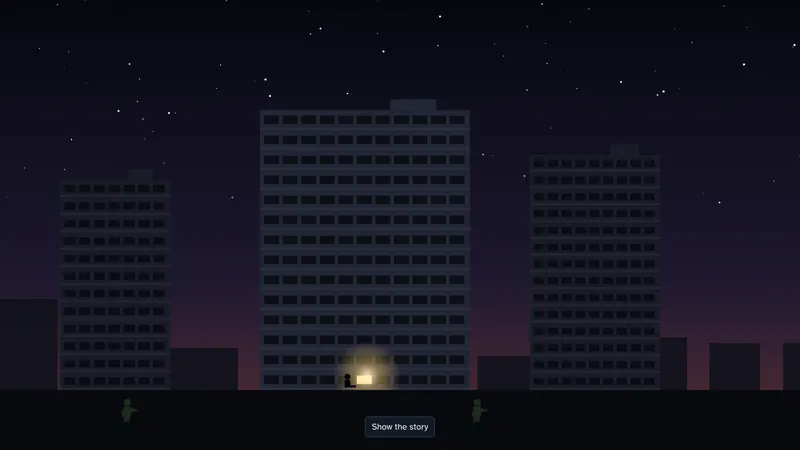
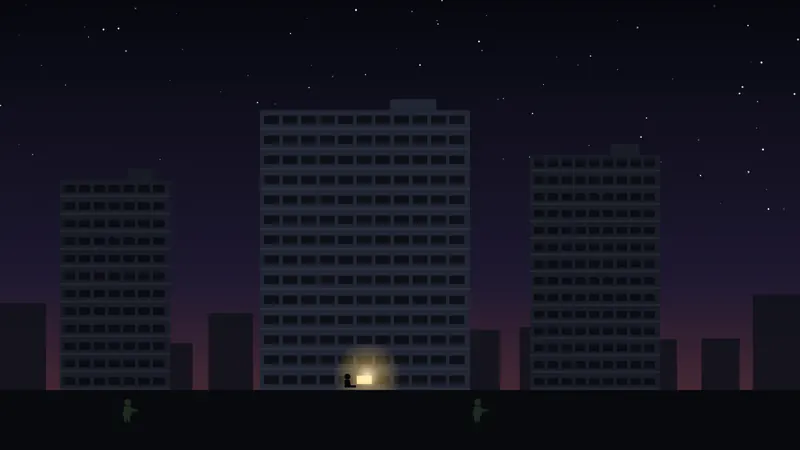
Restyle the block view to match the flat ending-scene art
Flat dusk and night skies with soft sun and moon glows, a dark facade
that shifts with the time of day, lit amber flats, a city skyline behind
the block, and a darker street. Landing page screenshots retaken in the
new style, and the ending thumbnails no longer show the 'Show the story'
button.

Claude-Session: https://claude.ai/code/session_013iYuGKsu41WWEmhTwasNdz

diff --git a/play.html b/play.html
@@ -61,7 +61,7 @@ select{background:var(--panel2);border:1px solid var(--line);border-radius:6px;p
 .ticker b{color:var(--ink);font-weight:700}
 
 #main{flex:1;min-height:0;display:grid;grid-template-columns:minmax(0,1.25fr) minmax(320px,1fr)}
-#tower-wrap{overflow:auto;position:relative;transition:background 1s}
+#tower-wrap{overflow-y:auto;overflow-x:hidden;position:relative;transition:background 1s}
 #side{background:var(--panel);border-left:1px solid var(--line);display:flex;flex-direction:column;min-height:0;min-width:0}
 #tabs{display:flex;gap:2px;padding:6px 8px 0;border-bottom:1px solid var(--line);overflow-x:auto}
 #tabs button{border:none;border-radius:6px 6px 0 0;background:transparent;color:var(--mute);padding:7px 10px;white-space:nowrap}
@@ -77,21 +77,22 @@ select{background:var(--panel2);border:1px solid var(--line);border-radius:6px;p
 
 /* ---------- the block ---------- */
 /* sun / moon: radial layers on the scroll container, so they stay put while the block scrolls */
-.sky-0{background:radial-gradient(circle at 22% 62px,#ffd9a0 0 24px,#ffb86a55 25px 42px,transparent 43px),linear-gradient(#3a4f6e,#d39a6a 85%)}
-.sky-1{background:radial-gradient(circle at 58% 44px,#fffbe6 0 22px,#fff1a866 23px 36px,#fff1a822 37px 50px,transparent 51px),linear-gradient(#3b7fc0,#9cc8e8 85%)}
-.sky-2{background:radial-gradient(circle at 78% 66px,#ff9a5c 0 26px,#ff6a3d44 27px 46px,transparent 47px),linear-gradient(#2b2347,#c0604a 85%)}
-.sky-3{background:radial-gradient(circle at 62% 46px,transparent 0 21px,#eef1f61c 22px 34px,transparent 35px),radial-gradient(circle at calc(62% + 8px) 41px,#06090f 0 17px,transparent 18px),radial-gradient(circle at 62% 46px,#eef1f6 0 20px,transparent 21px),radial-gradient(circle at 12% 30px,#fff 0 1.2px,transparent 2px),radial-gradient(circle at 34% 64px,#fff 0 1px,transparent 2px),radial-gradient(circle at 46% 18px,#fff 0 1.2px,transparent 2px),radial-gradient(circle at 80% 28px,#fffc 0 1px,transparent 2px),radial-gradient(circle at 90% 74px,#fffa 0 1px,transparent 2px),radial-gradient(circle at 4% 80px,#fffa 0 1px,transparent 2px),linear-gradient(#05080e,#121c2c 85%)}
+.sky-0{--fac:#3b4258;--slabc:#2a3043;--dk:#1b2030;background:radial-gradient(circle at 22% 70px,#ffe2a8 0 26px,#ffd27a55 27px,transparent 72px),linear-gradient(#5b6f9c,#c98d78 55%,#f2b47c)}
+.sky-1{--fac:#4a5266;--slabc:#353c50;--dk:#232836;background:radial-gradient(circle at 58% 52px,#fff6d6 0 24px,#fff1c466 25px,transparent 74px),linear-gradient(#5fa9e0,#a9d4f0 60%,#e3f2f8)}
+.sky-2{--fac:#2d3046;--slabc:#1f2234;--dk:#151826;background:radial-gradient(circle at 78% 74px,#ffd98a 0 28px,#ffd27a55 29px,transparent 82px),linear-gradient(#24183f,#6b3c55 45%,#c25a3c 80%,#f6b062)}
+.sky-3{--fac:#232838;--slabc:#181c2a;--dk:#0f121b;background:radial-gradient(circle at 62% 52px,#f2efd8 0 20px,#f2efd82e 21px,transparent 62px),radial-gradient(circle at 12% 30px,#fff 0 1.2px,transparent 2px),radial-gradient(circle at 34% 64px,#fff 0 1px,transparent 2px),radial-gradient(circle at 46% 18px,#fff 0 1.2px,transparent 2px),radial-gradient(circle at 80% 28px,#fffc 0 1px,transparent 2px),radial-gradient(circle at 90% 74px,#fffa 0 1px,transparent 2px),radial-gradient(circle at 4% 80px,#fffa 0 1px,transparent 2px),radial-gradient(circle at 72% 110px,#fff9 0 1px,transparent 2px),radial-gradient(circle at 24% 140px,#fff8 0 1px,transparent 2px),linear-gradient(#08102a,#18234a 60%,#2f3a62)}
 .haze #tower::after{content:"";position:absolute;inset:0;background:rgba(170,140,90,.28);pointer-events:none}
-#tower{position:relative;width:min(100%,640px);margin:0 auto;padding:100px 12px 0}
+#tower{position:relative;width:min(100%,640px);margin:0 auto;padding:100px 12px 0;isolation:isolate}
+.skyline{position:absolute;left:50%;bottom:0;width:max(100vw,1200px);height:auto;transform:translateX(-50%);z-index:-1;pointer-events:none}
 .roof{display:flex;align-items:flex-end;justify-content:space-between;gap:8px;padding:0 30px 0 36px}
 .blkno{font-family:var(--f-display);font-size:34px;line-height:1;color:var(--facade);text-shadow:0 2px 0 #00000055}
 .blkno small{display:block;font-size:11px;font-family:var(--f-body);color:#ffffffbb;letter-spacing:.06em;text-transform:uppercase;text-shadow:none}
 .roof-stuff{display:flex;gap:6px;align-items:flex-end;font-size:18px}
-.tank{width:34px;height:24px;background:var(--slab);border-radius:3px;display:grid;place-items:center;font-size:11px;color:#fff}
-.roof-slab{height:10px;background:var(--slab);margin-left:28px;border-radius:2px 2px 0 0}
-.floor{display:grid;grid-template-columns:28px minmax(0,1fr) 54px minmax(0,1fr);border-bottom:6px solid var(--slab);background:var(--facade);min-height:74px}
+.tank{width:34px;height:24px;background:var(--fac,var(--slab));border-radius:3px;display:grid;place-items:center;font-size:11px;color:#fff}
+.roof-slab{height:10px;background:var(--fac,var(--slab));margin-left:28px;border-radius:2px 2px 0 0}
+.floor{display:grid;grid-template-columns:28px minmax(0,1fr) 54px minmax(0,1fr);border-bottom:6px solid var(--slabc,var(--slab));box-shadow:inset 0 -3px 0 #ffffff12;background:var(--fac,var(--facade));min-height:74px}
 .lvl{font-family:var(--f-display);font-size:11px;color:#ffffffcc;display:grid;place-items:center;background:#00000033}
-.floor .lvl{background:transparent;color:#4b5a5e}
+.floor .lvl{background:transparent;color:#ffffff73}
 .floor.lost .lvl{color:var(--zed)}
 .side{display:flex;gap:4px;padding:4px;min-width:0}
 .unit{flex:1;min-width:0;position:relative;border-radius:3px;padding:4px 5px;background:#3a2f26;border:2px solid transparent;text-align:left;cursor:pointer;display:flex;flex-direction:column;gap:2px;overflow:hidden;color:#fff}
@@ -103,46 +104,46 @@ select{background:var(--panel2);border:1px solid var(--line);border-radius:6px;p
 .unit .faces i{font-style:normal;position:relative}
 .unit .faces i::after{content:"";position:absolute;right:-1px;bottom:0;width:5px;height:5px;border-radius:50%;background:var(--c,#5fc48a)}
 .unit .flags{position:absolute;top:3px;right:4px;font-size:11px}
-.st-known{background:linear-gradient(#f6d58c,#d9a659);color:#2a1a07}
-.st-known.dark{background:linear-gradient(#4d4a5c,#36323f);color:#e9e4f5}
-.st-known.lampon{background:linear-gradient(#e9c98a,#b48a4f);color:#2a1a07}
-.st-unknown{background:#07090c;color:#5b6876}
-.st-unknown .q{font-family:var(--f-display);font-size:18px;color:#2a3440}
-.st-empty{background:#5b5249;color:#efe6da}
-.st-danger{background:#3b1714;color:#ffb4a6;animation:thud 1.6s infinite}
-.st-sealed{background:repeating-linear-gradient(45deg,#3d2c22 0 8px,#2a1e17 8px 16px);color:#e3c7a8}
+.st-known{background:#ffcf73;color:#2a1a07;box-shadow:0 0 18px #ffcf7333}
+.st-known.dark{background:#3a3f55;color:#e9e4f5;box-shadow:none}
+.st-known.lampon{background:#e9b866;color:#2a1a07}
+.st-unknown{background:var(--dk,#141822);color:#5b6876}
+.st-unknown .q{font-family:var(--f-display);font-size:18px;color:#ffffff1f}
+.st-empty{background:#4b4f63;color:#e3e6ee}
+.st-danger{background:#4a1a18;color:#ffb4a6;animation:thud 1.6s infinite}
+.st-sealed{background:repeating-linear-gradient(45deg,#4a3526 0 8px,#36271c 8px 16px);color:#e3c7a8}
 .st-lost{background:#1a2414;color:var(--zed)}
-.room-workshop{background:linear-gradient(#7b8c9a,#4f5d69);color:#fff}
-.room-sickbay{background:linear-gradient(#e8f1f0,#a9c9c6);color:#123}
-.room-quarantine{background:linear-gradient(#6d7175,#3c3f43);color:#fff}
-.room-depot{background:linear-gradient(#a4876a,#6b5640);color:#fff}
-.room-kopi{background:linear-gradient(#d9a46a,#8a5a35);color:#fff}
+.room-workshop{background:#5d6b82;color:#fff}
+.room-sickbay{background:#d8f7e3;color:#123;box-shadow:0 0 20px #7dffb055}
+.room-quarantine{background:#50555c;color:#fff}
+.room-depot{background:#8a6a4a;color:#fff}
+.room-kopi{background:#c98a4f;color:#fff}
 .st-gutted{background:#2b2a28;color:#77726a;background-image:repeating-linear-gradient(0deg,transparent 0 10px,#00000033 10px 11px)}
-.room-garden{background:linear-gradient(#7cbc6b,#3f7a3a);color:#fff}
+.room-garden{background:#3f8a4a;color:#fff;box-shadow:inset 0 -6px 0 #4fae5c}
 @keyframes thud{0%,100%{transform:none}50%{transform:translateX(1px)}}
-.core{background:repeating-linear-gradient(-35deg,#55626a 0 6px,#47535a 6px 12px);position:relative;display:flex;flex-direction:column;align-items:center;justify-content:center;gap:2px;font-size:10px;color:#fff}
-.lift{width:22px;height:30px;border:2px solid #222b;background:#8d989e;border-radius:2px;display:grid;place-items:center;font-size:9px;color:#123}
-.lift.off{background:#30383d;color:#888}
+.core{background:var(--dk,#1b2030);position:relative;display:flex;flex-direction:column;align-items:center;justify-content:center;gap:2px;font-size:10px;color:#fff}
+.lift{width:22px;height:30px;border:2px solid #0006;background:#6d7588;border-radius:2px;display:grid;place-items:center;font-size:9px;color:#123}
+.lift.off{background:#2a2f3d;color:#888}
 .barbar{width:44px;height:6px;background:#0008;border-radius:3px;overflow:hidden}
 .barbar i{display:block;height:100%;background:var(--warn)}
 .line-tag{font-family:var(--f-display);font-size:9px;color:#ffd27a;text-shadow:0 1px 0 #000}
-.floor.lost{background:#28331f}
-.floor.lost .core{background:repeating-linear-gradient(-35deg,#3a4630 0 6px,#2d3825 6px 12px)}
+.floor.lost{background:#1d2a20}
+.floor.lost .core{background:#16201a}
 .zz{display:inline-block;width:18px;height:26px;vertical-align:bottom;scale:1.3;transform-origin:bottom center;margin:0 3px;background-position:0 calc(var(--r) * -26px);animation:shamble 3s ease-in-out infinite,walk .9s steps(4) infinite}
 @keyframes shamble{0%,100%{transform:translateX(0) rotate(-4deg)}50%{transform:translateX(5px) rotate(4deg)}}
-.voiddeck{display:grid;grid-template-columns:28px minmax(0,1fr);background:#b9c2bd;min-height:84px;border-bottom:6px solid #4a5357}
-.vd-in{position:relative;display:flex;align-items:flex-end;justify-content:space-between;padding:6px 10px;background:repeating-linear-gradient(90deg,transparent 0 22%,#9aa5a0 22% 24%)}
+.voiddeck{display:grid;grid-template-columns:28px minmax(0,1fr);background:var(--fac,#2d3046);min-height:84px;border-bottom:6px solid var(--slabc,#1f2234)}
+.vd-in{position:relative;display:flex;align-items:flex-end;justify-content:space-between;padding:6px 10px;background:var(--dk,#151826) repeating-linear-gradient(90deg,transparent 0 22%,var(--fac,#2d3046) 22% 25%)}
 .vd-in.lost{background:#2a351f}
-.vd-label{font-family:var(--f-display);font-size:13px;color:#33413d}
+.vd-label{font-family:var(--f-display);font-size:13px;color:#ffffff8c}
 .vd-in.lost .vd-label{color:var(--zed)}
 .shutter{display:flex;flex-direction:column;align-items:flex-end;gap:3px}
 .shutter .barbar{width:110px;height:8px}
-.ground{display:grid;grid-template-columns:repeat(auto-fit,minmax(56px,1fr));gap:6px;padding:10px 4px 14px;background:linear-gradient(#3b4a3a,#2a3529)}
-.site{background:#00000044;border:1px solid #ffffff22;border-radius:6px;padding:6px;color:#fff;display:flex;flex-direction:column;align-items:center;gap:1px;font-size:11px;text-align:center}
+.ground{display:grid;grid-template-columns:repeat(auto-fit,minmax(56px,1fr));gap:6px;padding:10px 4px 14px;background:#11151f;box-shadow:0 0 0 100vmax #11151f;clip-path:inset(0 -100vmax -100vmax)}
+.site{background:#1c212d;border:1px solid #ffffff1a;border-radius:6px;padding:6px;color:#fff;display:flex;flex-direction:column;align-items:center;gap:1px;font-size:11px;text-align:center}
 .site b{font-size:20px;line-height:1}
 .site .mono{font-size:10px;opacity:.8}
-.road{height:16px;background:repeating-linear-gradient(90deg,#3a3f44 0 18px,#e6e6e6 18px 30px,#3a3f44 30px 48px);background-size:48px 2px;background-repeat:repeat-x;background-position:0 7px;background-color:#3a3f44}
-.horde{text-align:center;font-size:13px;padding:2px;background:#3a3f44;color:var(--zed);min-height:20px}
+.road{height:16px;background:repeating-linear-gradient(90deg,#1c212d 0 18px,#e9e2d055 18px 30px,#1c212d 30px 48px);background-size:48px 2px;background-repeat:repeat-x;background-position:0 7px;background-color:#1c212d;box-shadow:0 0 0 100vmax #1c212d;clip-path:inset(0 -100vmax)}
+.horde{text-align:center;font-size:13px;padding:2px;background:#151a24;box-shadow:0 0 0 100vmax #151a24;clip-path:inset(0 -100vmax);color:var(--zed);min-height:20px}
 
 /* ---------- panel ---------- */
 h2{font-family:var(--f-display);font-weight:400;font-size:18px;margin:0 0 6px;letter-spacing:.01em;text-wrap:balance}
@@ -1843,10 +1844,19 @@ function unitTile(u){
   const flags=[];if(ms.some(r=>r.quar))flags.push('🔒');if(ms.some(r=>r.inf&&!r.inf.hidden))flags.push('🦷');if(ms.some(r=>r.hp<50))flags.push('🤕');if(ms.some(r=>r.hun>=50))flags.push('<span title="Someone here is hungry">🍚</span>');if(ms.some(r=>r.thi>=50))flags.push('<span title="Someone here is thirsty">💧</span>');if(ms.some(r=>r.leader))flags.push('⭐');
   return `<button class="unit st-known${light}${sel}" data-act="sel" data-v="${u.id}"><span class="uid">${u.id}</span><span class="flags">${flags.join('')}</span><span class="unm">${esc(h.name)} <span style="opacity:.65;font-weight:400">${ms.length}</span></span><span class="spr">${ms.filter(atHome).map(sprite).join('')}</span></button>`;
 }
+function skylineSVG(){
+  if(UI.skyFor===S.blk&&UI.sky)return UI.sky;
+  let sd=(+String(S.blk).replace(/\D/g,'')||7)*13+5;const rr=()=>(sd=(sd*9301+49297)%233280)/233280;
+  let o='',x=0;const W=1200,H=420;
+  for(let row=0;row<2;row++){x=-10;while(x<W){const w=40+rr()*70,h=(row?90:160)+rr()*(row?120:220);
+    o+=`<rect x="${x|0}" y="${H-h|0}" width="${w|0}" height="${h|0}" fill="${row?'var(--sk2,#0000003d)':'var(--sk1,#00000026)'}"/>`;
+    for(let k=0;k<(row?4:2);k++)if(rr()<.6)o+=`<rect x="${(x+5+rr()*(w-12))|0}" y="${(H-h+8+rr()*(h-20))|0}" width="4" height="3" fill="#ffcf73" opacity="${row?.55:.3}"/>`;
+    x+=w+(row?6:14)+rr()*30}}
+  UI.skyFor=S.blk;UI.sky=`<svg class="skyline" viewBox="0 0 ${W} ${H}" preserveAspectRatio="xMidYMax slice" aria-hidden="true" style="bottom:var(--skyb,120px)">${o}</svg>`;return UI.sky}
 function renderTower(){
   UI.posts=workPosts();
   const wrap=$('#tower-wrap');wrap.className='sky-'+S.ph+(S.weather.type==='haze'?' haze':'');
-  const look=lookouts();let h='';
+  const look=lookouts();let h=skylineSVG();
   h+=`<div class="roof"><div class="blkno">${esc(S.blk)}<small>${esc(S.estate)}</small></div><div class="roof-stuff">${look.map(r=>`<span title="Lookout: ${esc(r.short)}">${faceOf(r)}</span>`).join('')}${S.built.rain?`<span title="Rain catchers">⛱${S.built.rain>1?'×'+S.built.rain:''}</span>`:''}${Object.keys(S.built.fox||{}).length?'<span title="Flying fox">🪢</span>':''}<span class="tank">TANK</span><span class="tank">TANK</span></div></div><div class="roof-slab"></div>`;
   const nl=Math.ceil(S.upf/2);
   for(let l=S.floors;l>=2;l--){
@@ -1857,7 +1867,7 @@ function renderTower(){
   }
   const g=S.front===0?jobbers('guard'):[];
   h+=`<div class="voiddeck"><div class="lvl">01</div><div class="vd-in ${S.front>0?'lost':''}">${S.front>0?`<span class="vd-label">VOID DECK · OVERRUN</span><span>${zz(0)}${zz(1,'-1s')}${zz(2,'-2s')}</span>`:
-    `<span class="vd-label">VOID DECK</span><div class="shutter">${isOut()?`<span class="small" style="color:#33413d">Shutter ${Math.max(0,Math.round(S.bar.hp))}/${S.bar.max}</span><div class="barbar"><i style="width:${clamp(S.bar.hp/S.bar.max*100,0,100)}%"></i></div>`:'<span class="small" style="color:#33413d">Letterboxes · bicycle bay · chess tables</span>'}<span>${g.map(faceOf).join('')}</span></div>`}</div></div>`;
+    `<span class="vd-label">VOID DECK</span><div class="shutter">${isOut()?`<span class="small" style="color:#ffffffa6">Shutter ${Math.max(0,Math.round(S.bar.hp))}/${S.bar.max}</span><div class="barbar"><i style="width:${clamp(S.bar.hp/S.bar.max*100,0,100)}%"></i></div>`:'<span class="small" style="color:#ffffffa6">Letterboxes · bicycle bay · chess tables</span>'}<span>${g.map(faceOf).join('')}</span></div>`}</div></div>`;
   const zc=isOut()?Math.min(14,Math.floor(Math.sqrt(pday())*2)):0;
   h+=`<div class="horde">${zc?Array.from({length:zc},(_, i)=>zz(i,'-'+(i*.37).toFixed(2)+'s')).join(''):(alertLvl()>=2?'<span style="color:#ddd">Queues at the supermarket</span>':'')}</div><div class="road"></div>`;
   h+=`<div class="ground">${Object.entries(DEST).filter(([k])=>destOk(k)).map(([k,d])=>{const out=S.exps.filter(e=>e.dest===k);return `<button class="site" data-act="site" data-v="${k}"><b>${d.e}</b>${d.n.replace('Neighbourhood ','')}${k==='market'?`<span class="mono">${S.market<1?'empty':'stock '+Math.round(S.market)+'%'}</span>`:''}${k==='far'?`<span class="mono">${(S.far==null?100:S.far)<1?'empty':'stock '+Math.round(S.far==null?100:S.far)+'%'}</span>`:''}${out.length?`<span class="mono">team out (${out[0].team.length})</span>`:''}</button>`}).join('')}</div>`;
